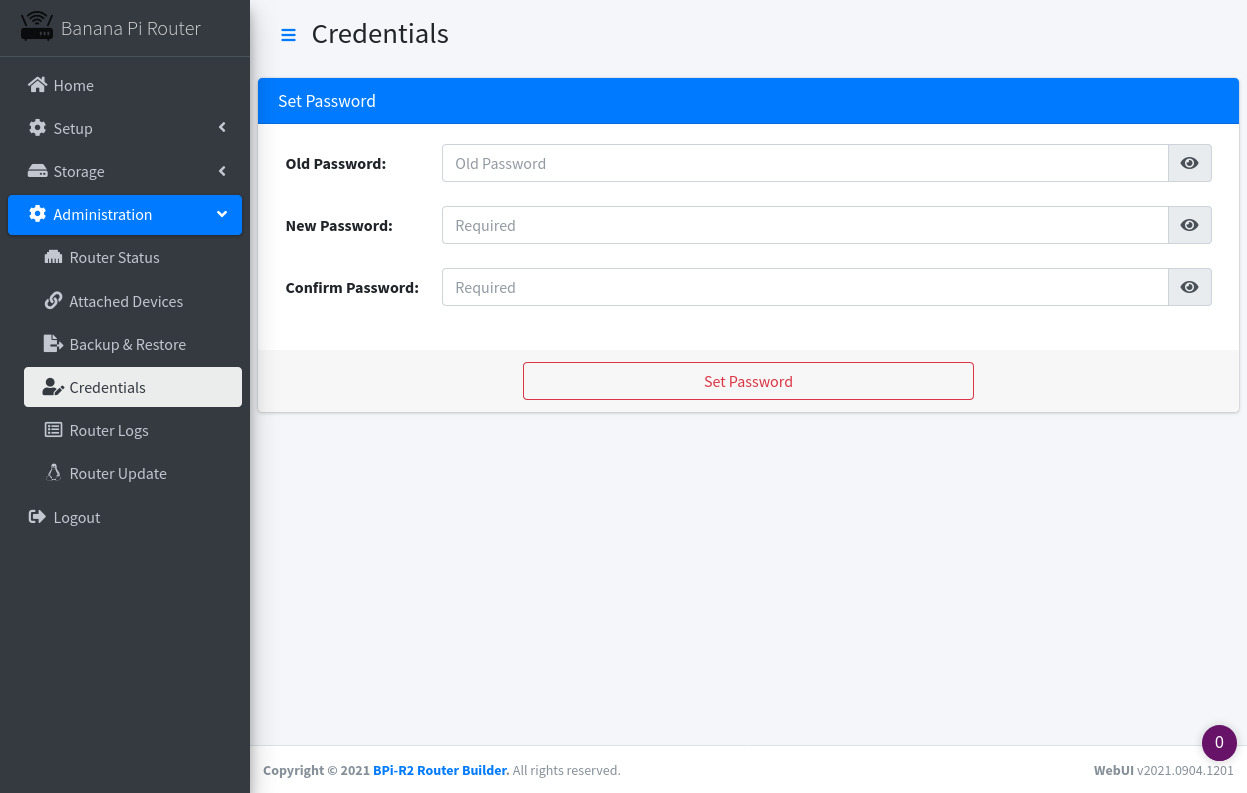
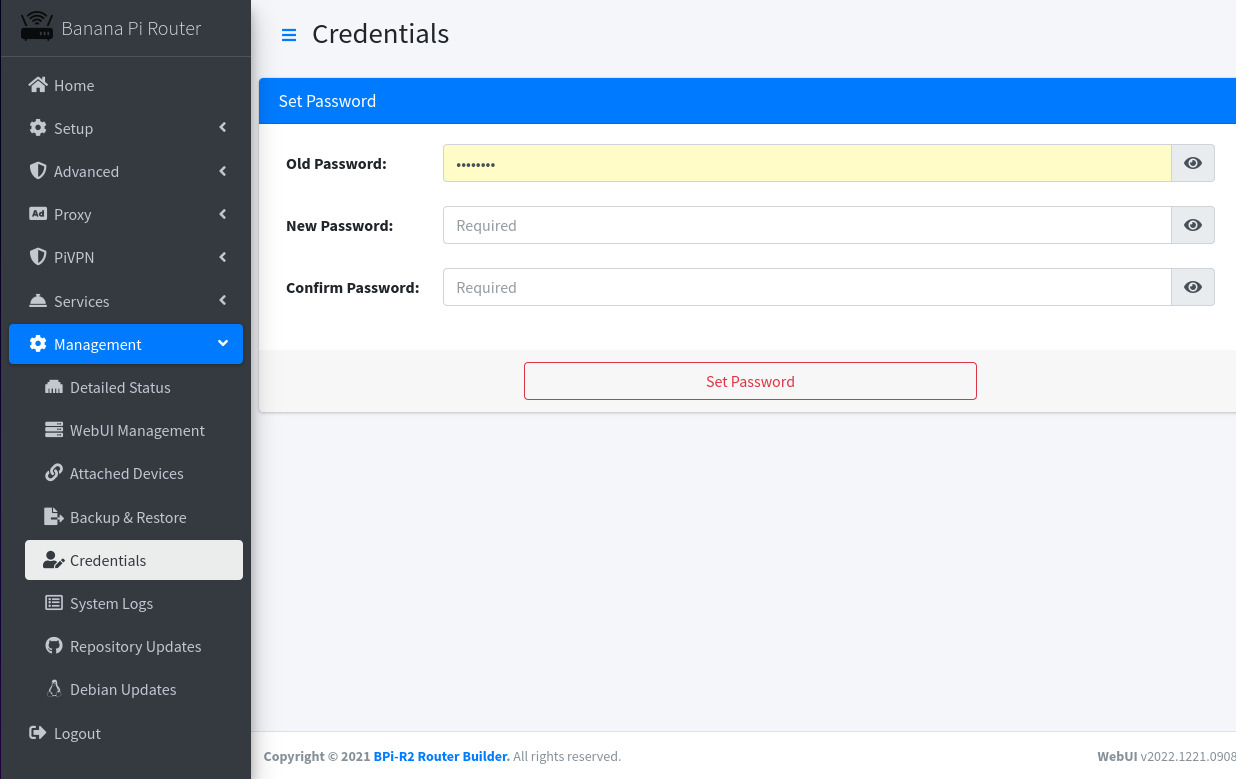
Updated most screenshots

diff --git a/router/includes/subs/site.php b/router/includes/subs/site.php
@@ -29,6 +29,9 @@ $sidebar_menu = array(
 	'proxy'  => array('Proxy', 'fas fa-ad', array(
 		'filters'   => menu_link('/proxy/filters', 'Privoxy Filters', 'fas fa-filter'),
 	)),
+	'pivpn'  => array('PiVPN', 'fas fa-shield-alt', array(
+		'filters'   => menu_link('/pivpn/services', 'Services', 'fas fa-cog'),
+	)),
 	'services'  => array('Services', 'fas fa-concierge-bell', array(
 		'upnp'      => menu_link('/services/upnp', 'UPnP Setup', 'fas fa-plug', file_exists("/lib/systemd/system/miniupnpd.service")),
 		'usage'     => menu_link('/services/bandwidth', 'Bandwidth Usage', 'fas fa-chart-bar', file_exists("/lib/systemd/system/vnstat.service")),
